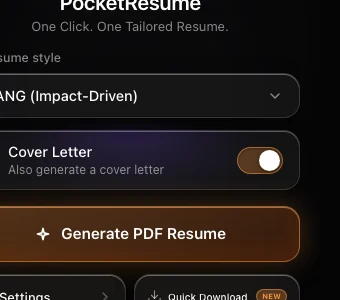
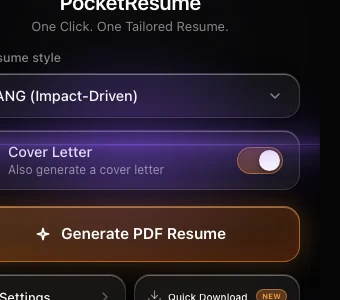
feat(popup): edge-to-edge horizon line with background-filling bloom
Splits the horizon glow into two layers so the line can be genuinely
edge to edge while the bloom still fills the background.

Previously the line and the bloom were one element scaled from the
centre, which inset the line to 55% of the popup width. Now:

- .glow-line is a 1px hairline spanning the full 380px popup at 90%
  opacity with a three-stop box-shadow bloom, layered above the content
  so a full-width glass card's backdrop-filter can no longer erase it.
- .glow-bloom is a 260px blurred ellipse behind the content that paints
  the middle of the background, and it is the layer that scales from
  0.72 to 1 on activity - which is what reads as the glow travelling
  from the centre of the line out to the edges.

Changed region(s): [[0.0, 0.24, 0.9412, 0.69]]

diff --git a/popup.html b/popup.html
@@ -184,55 +184,73 @@
     }
 
     /* ============================
-       Horizon Glow Line
+       Horizon Glow — bloom behind content, hairline across it
        ============================ */
-    .glow-line {
+    .glow-bloom {
       position: absolute;
       left: 0;
       right: 0;
       top: 50%;
-      height: 72px;
+      height: 260px;
       z-index: 1;
       pointer-events: none;
-      opacity: 0.38;
-      transform: translateY(-50%) scaleX(var(--line-s, 0.55));
+      opacity: 0.55;
+      transform: translateY(-50%) scaleX(var(--line-s, 0.72));
       transform-origin: 50% 50%;
-      background: radial-gradient(ellipse 64% 46% at 50% 50%,
+      background: radial-gradient(ellipse 72% 50% at 50% 50%,
         rgba(var(--line-c), 0.55),
-        rgba(var(--line-c), 0.16) 58%,
-        transparent 80%);
+        rgba(var(--line-c), 0.2) 52%,
+        rgba(var(--line-c), 0.05) 74%,
+        transparent 88%);
+      filter: blur(10px);
       transition: transform 700ms var(--ease), opacity 700ms var(--ease);
     }
 
-    /* Bright hairline core — reads as a line wherever the backdrop is clear */
-    .glow-line::after {
-      content: "";
+    .glow-line {
       position: absolute;
       left: 0;
       right: 0;
       top: 50%;
       height: 1px;
       transform: translateY(-50%);
+      z-index: 3;
+      pointer-events: none;
+      opacity: 0.9;
       background: linear-gradient(90deg,
-        transparent,
-        rgba(var(--line-c), 0.95) 50%,
-        transparent);
-      box-shadow: 0 0 12px 2px rgba(var(--line-c), 0.5);
+        rgba(var(--line-c), 0.4) 0%,
+        rgba(var(--line-c), 0.8) 20%,
+        rgba(var(--line-c), 1) 50%,
+        rgba(var(--line-c), 0.8) 80%,
+        rgba(var(--line-c), 0.4) 100%);
+      box-shadow:
+        0 0 8px 1px rgba(var(--line-c), 0.55),
+        0 0 24px 6px rgba(var(--line-c), 0.35),
+        0 0 60px 18px rgba(var(--line-c), 0.22);
+      transition: opacity 700ms var(--ease), box-shadow 700ms var(--ease);
     }
 
-    body[data-status="generating"] .glow-line,
-    body[data-fill-status="filling"] .glow-line {
+    body[data-status="generating"] .glow-bloom,
+    body[data-fill-status="filling"] .glow-bloom {
       --line-s: 1;
       opacity: 0.95;
       animation: linePulse 1.6s ease-in-out infinite;
     }
 
+    body[data-status="success"] .glow-bloom,
+    body[data-status="failure"] .glow-bloom,
+    body[data-fill-status="fill-success"] .glow-bloom,
+    body[data-fill-status="fill-failure"] .glow-bloom {
+      --line-s: 1;
+      opacity: 0.85;
+    }
+
+    body[data-status="generating"] .glow-line,
+    body[data-fill-status="filling"] .glow-line,
     body[data-status="success"] .glow-line,
     body[data-status="failure"] .glow-line,
     body[data-fill-status="fill-success"] .glow-line,
     body[data-fill-status="fill-failure"] .glow-line {
-      --line-s: 1;
-      opacity: 0.9;
+      opacity: 1;
     }
 
     @keyframes linePulse {
@@ -1342,6 +1360,7 @@
   <link rel="stylesheet" href="feature-video.css">
 </head>
 <body data-status="idle">
+  <div class="glow-bloom" aria-hidden="true"></div>
   <div class="glow-line" aria-hidden="true"></div>
   <header class="app-header">
     <div class="header-side header-left">

diff --git a/CHANGELOG.md b/CHANGELOG.md
@@ -23,7 +23,7 @@ Notes on history:
 - **Popup tidy-up: one grid, one scale.** Added spacing (`--space-1…5`), radius (`--radius-card` / `--radius-ctl`) and shared row-height (`--row-h`) tokens, then rebuilt the vertical rhythm on them — the style dropdown and the Cover Letter row, the CTA and the four bottom buttons now share a 45px row height with consistent 12/16px gaps, and the 38px dead gap under the header is gone. Card, dropdown and pill radii were unified on the tokens instead of ad-hoc 9/10/16px values.
 - **Header rebuilt as a three-column grid.** The account pill, brand and tour button sit on a shared baseline, and the brand stays dead-centre whether or not the pill is present (its width changes with the plan label). This fixes a real collision: the red `?` error button was absolutely positioned at the same `top/left` as the account pill, so every generation error drew the `?` on top of the Sign in / Pro pill. It now lives on the right edge beside the play button.
 - **Generate button icon alignment fixed.** The idle sparkle was a *filled* glyph while success/failure were stroke icons, so the icon's weight jumped on every state change; all three are now the same 18px stroke set. The label also gained `line-height: 1` so its line box centres exactly against the icon instead of drifting a pixel.
-- **Violet horizon glow.** A soft violet bloom now sits across the vertical centre of the popup so idle is no longer flat black. It reuses the existing status tokens, so it expands from the centre outwards and turns blue while generating, green on success and red on failure — no new JS. Because the dead centre falls behind a full-width glass card whose `backdrop-filter` blurs a hairline away, the glow is rendered as a bloom band with a hairline core that shows wherever the backdrop is clear.
+- **Violet horizon glow.** The idle popup is no longer flat black. A bright violet line runs edge to edge across the vertical centre, with a bloom that fills the background around it. It reuses the existing status tokens, so the bloom expands from the centre outwards and everything turns blue while generating, green on success and red on failure — no new JS. Split into two layers because the dead centre falls behind a full-width glass card whose `backdrop-filter` blurs a hairline away: the bloom sits behind the content to paint the background, and the line sits above it so it stays visible edge to edge.
 
 ---
 
